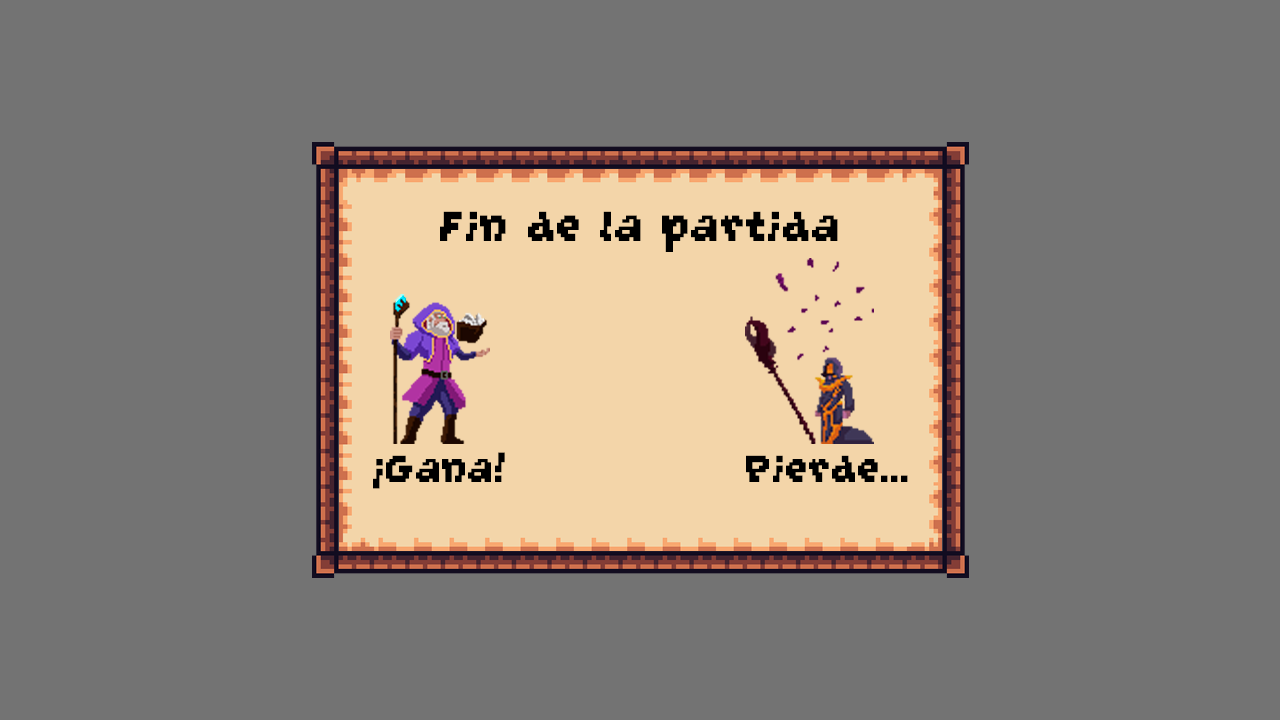
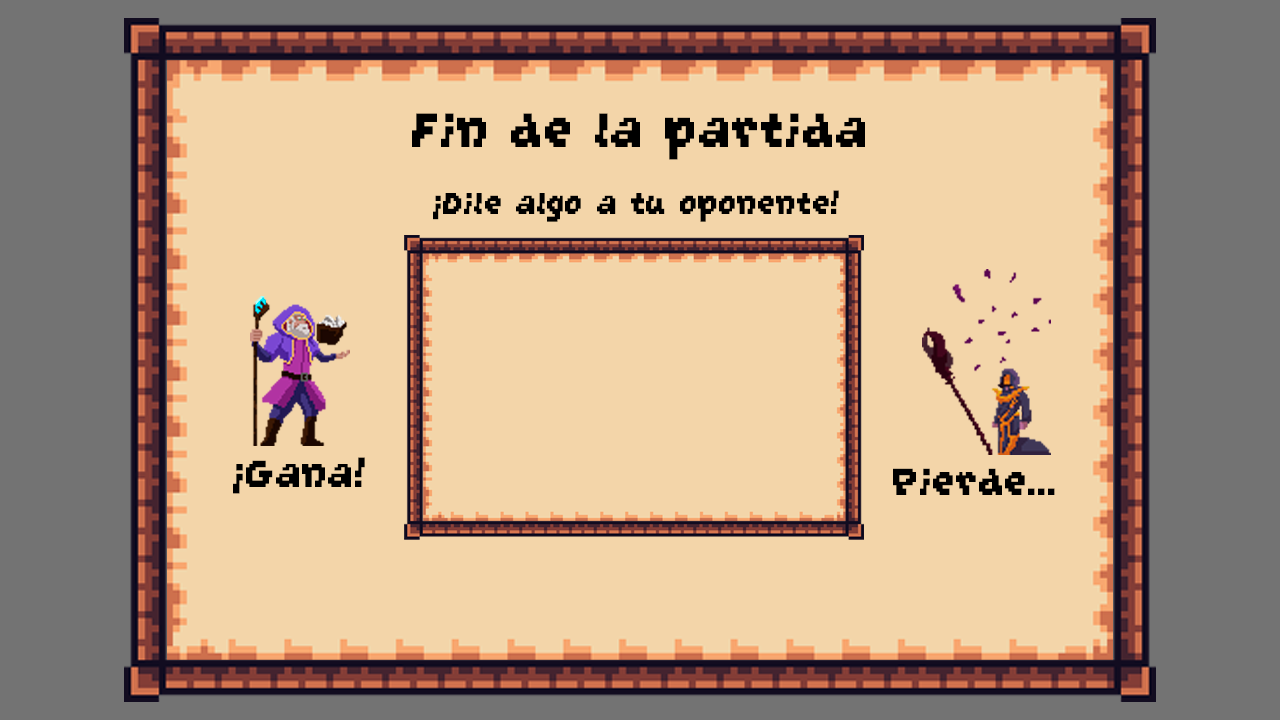
interfaz chat guay

diff --git a/duelforthemagetower/src/main/resources/static/JS/gameover.js b/duelforthemagetower/src/main/resources/static/JS/gameover.js
@@ -9,6 +9,8 @@ class Gameover extends Phaser.Scene{
     _buttonPlayAgain;
     _buttonStats;
 
+    buttonGg;
+
     _audioClick;
     _audioClack;
 
@@ -20,9 +22,15 @@ class Gameover extends Phaser.Scene{
         this.load.image("p1_win", "../Assets/UI/Screens/GameOver/P1Win.png");
         this.load.image("p2_win", "../Assets/UI/Screens/GameOver/P2Win.png");
 
+        this.load.spritesheet("bye", "../Assets/UI/Screens/GameOver/byeButton.png", { frameWidth: 320, frameHeight: 45 });
+        this.load.spritesheet("congrats", "../Assets/UI/Screens/GameOver/enhorabuenaButton.png", { frameWidth: 320, frameHeight: 45 });
+        this.load.spritesheet("other", "../Assets/UI/Screens/GameOver/otraButton.png", { frameWidth: 320, frameHeight: 45 });
+        this.load.spritesheet("gg", "../Assets/UI/Screens/GameOver/bienButton.png", { frameWidth: 320, frameHeight: 45 });
+
         this.load.spritesheet("btn_menu", "../Assets/UI/Screens/GameOver/MenuButton.png", { frameWidth: 167, frameHeight: 106 });
         this.load.spritesheet("btn_replay", "../Assets/UI/Screens/GameOver/ReplayButton.png", { frameWidth: 167, frameHeight: 106 });
         this.load.spritesheet("btn_stats", "../Assets/UI/Screens/GameOver/StatsButton.png", { frameWidth: 167, frameHeight: 106 });
+        
         this.load.audio("click", "../Assets/UI/Sounds/Minimalist4.wav");
         this.load.audio("clack", "../Assets/UI/Sounds/Minimalist7.wav");
     }
@@ -49,6 +57,13 @@ class Gameover extends Phaser.Scene{
         this._buttonStats = this.initStatsButton();
 
         this._buttonPlayAgain = this.initPlayAgainButton();
+
+        this.buttonGg = this.initGgButton();
+        this.buttonCongrats = this.initCongratsButton();
+        this.buttonOther = this.initOtherButton();
+        this.buttonBye = this.initByeButton();
+
+
     }
 
     
@@ -68,7 +83,7 @@ class Gameover extends Phaser.Scene{
 
     initMenuButton()
     {
-        let button = this.add.sprite(viewport.width/2, 120 + viewport.height/2, "btn_menu")
+        let button = this.add.sprite(150 + viewport.width/2, 230 + viewport.height/2, "btn_menu")
             .setInteractive({ useHandCursor: true })
             .on('pointerdown', () => { this.enterButtonClickState(this._buttonMenu) })
             .on('pointerup', () => 
@@ -84,7 +99,7 @@ class Gameover extends Phaser.Scene{
 
     initStatsButton()
     {
-        let button = this.add.sprite(viewport.width/2, 40 + viewport.height/2, "btn_stats")
+        let button = this.add.sprite(viewport.width/2 - 150, 230 + viewport.height/2, "btn_stats")
             .setInteractive({ useHandCursor: true })
             .on('pointerdown', () => { this.enterButtonClickState(this._buttonStats) })
             .on('pointerup', () => 
@@ -100,7 +115,7 @@ class Gameover extends Phaser.Scene{
 
     initPlayAgainButton()
     {
-        let button = this.add.sprite(viewport.width/2, viewport.height/2 - 40, "btn_replay")
+        let button = this.add.sprite(viewport.width/2, 230 + viewport.height/2, "btn_replay")
             .setInteractive({ useHandCursor: true })
             .on('pointerdown', () => { this.enterButtonClickState(this._buttonPlayAgain) })
             .on('pointerup', () => 
@@ -137,5 +152,83 @@ class Gameover extends Phaser.Scene{
         this.scene.start("StatsScene"); 
         
     }
+
+    initGgButton()
+    {
+        
+        let button = this.add.sprite(635, 300, "gg")
+            .setInteractive({ useHandCursor: true })
+            // lo cambio para que se vea la animacion y se ejecute la accion al SOLTAR el boton y no pulsarlo
+            .on('pointerdown', () => { this.enterButtonClickState(this.buttonGg) })
+            .on('pointerup', () => 
+            { 
+                this.enterButtonRestState(this.buttonGg);
+                //this.showHelp(); 
+            })
+            // vale esto es por si por lo q sea te interesa q al salir el cursor del boton se reinicie la animacion
+            .on('pointerout', () => this.enterButtonRestState(this.buttonGg) 
+        );
+
+        return button;
+    }
+
+    initCongratsButton()
+    {
+        
+        let button = this.add.sprite(635, 420, "congrats")
+            .setInteractive({ useHandCursor: true })
+            // lo cambio para que se vea la animacion y se ejecute la accion al SOLTAR el boton y no pulsarlo
+            .on('pointerdown', () => { this.enterButtonClickState(this.buttonCongrats) })
+            .on('pointerup', () => 
+            { 
+                this.enterButtonRestState(this.buttonCongrats);
+                //this.showHelp(); 
+            })
+            // vale esto es por si por lo q sea te interesa q al salir el cursor del boton se reinicie la animacion
+            .on('pointerout', () => this.enterButtonRestState(this.buttonCongrats) 
+        );
+
+        return button;
+    }
+
+    initOtherButton()
+    {
+        
+        let button = this.add.sprite(635, 360, "other")
+            .setInteractive({ useHandCursor: true })
+            // lo cambio para que se vea la animacion y se ejecute la accion al SOLTAR el boton y no pulsarlo
+            .on('pointerdown', () => { this.enterButtonClickState(this.buttonOther) })
+            .on('pointerup', () => 
+            { 
+                this.enterButtonRestState(this.buttonOther);
+                //this.showHelp(); 
+            })
+            // vale esto es por si por lo q sea te interesa q al salir el cursor del boton se reinicie la animacion
+            .on('pointerout', () => this.enterButtonRestState(this.buttonOther) 
+        );
+
+        return button;
+    }
+
+    initByeButton()
+    {
+        
+        let button = this.add.sprite(635, 480, "bye")
+            .setInteractive({ useHandCursor: true })
+            // lo cambio para que se vea la animacion y se ejecute la accion al SOLTAR el boton y no pulsarlo
+            .on('pointerdown', () => { this.enterButtonClickState(this.buttonBye) })
+            .on('pointerup', () => 
+            { 
+                this.enterButtonRestState(this.buttonBye);
+                //this.showHelp(); 
+            })
+            // vale esto es por si por lo q sea te interesa q al salir el cursor del boton se reinicie la animacion
+            .on('pointerout', () => this.enterButtonRestState(this.buttonBye) 
+        );
+
+        return button;
+    }
+
+
 
 }
